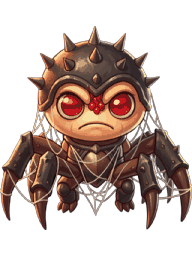
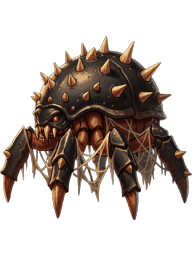
world2: 그림 머리말에서 3등신 문구 제거 · 거미 셋 재생성

diff --git a/game-card-world2/tools/icon_common.py b/game-card-world2/tools/icon_common.py
@@ -38,10 +38,12 @@ PAINT = (
     "painterly brush texture, soft cel-shaded volumes, "
     "bright warm lighting, rich vivid colors, grounded mature art direction for teen and adult players. "
 )
-# 캐릭터 · 크리처 — 작게 보여도 읽히도록 슈퍼 데포르메 비율
+# 캐릭터 · 크리처 — 2026-10-02: **슈퍼 데포르메 문구를 걷어냄**.
+#   'oversized head · small compact body' 가 박혀 있어 곤충 · 짐승까지 큰 눈 달린 귀여운 꼴로 나왔다.
+#   이제 **그 종의 제 비율**로 그리라고 못 박는다 (그림체는 PAINT 로 그대로 이어진다)
 CHARACTER_PREFIX = (
-    "Stylized fantasy RPG game icon, super deformed (SD) style with chunky exaggerated proportions, "
-    "characters have an oversized head and a small compact body, " + PAINT
+    "Stylized fantasy RPG game icon, chunky readable shapes, true natural proportions for the species, "
+    "no chibi, no super deformed, no oversized head, no big cartoon eyes, " + PAINT
 )
 CHARACTER_SUFFIX = (
     ", single character, centered composition, clean readable silhouette, "

diff --git a/game-card-world2/docs/아이콘_목록.md b/game-card-world2/docs/아이콘_목록.md
@@ -2106,27 +2106,27 @@ a small heap of seashells and barnacle crusted stones, wet
 <!-- icon:portrait_spider -->
 ### portrait_spider — 거미
 - 파일: `images/portrait/portrait_spider.png`
-- 생성: 2026-10-01 · seed `262422128998767` · 옵션 `--kind creature`
+- 생성: 2026-10-02 · seed `82499861911912` · 옵션 `--kind creature`
 ```
-a hairy forest spider with long jointed legs and shiny black eyes, standing alert
+a hairy forest spider seen from the side, eight long jointed legs, small dark eye cluster, bristled abdomen, realistic arachnid build
 ```
 <!-- /icon -->
 
 <!-- icon:portrait_webmother -->
 ### portrait_webmother — 거미 어미
 - 파일: `images/portrait/portrait_webmother.png`
-- 생성: 2026-10-01 · seed `83341694385335` · 옵션 `--kind creature`
+- 생성: 2026-10-02 · seed `218862082703265` · 옵션 `--kind creature`
 ```
-a large bloated spider matriarch with a pale swollen abdomen marked with pattern, thick bristled legs, trailing silk
+a huge bloated spider matriarch seen from the side, pale swollen abdomen marked with dark patterns, thick bristled legs, small clustered eyes, trailing silk strands, realistic arachnid build
 ```
 <!-- /icon -->
 
 <!-- icon:portrait_nestkeeper -->
 ### portrait_nestkeeper — 둥지 주인
 - 파일: `images/portrait/portrait_nestkeeper.png`
-- 생성: 2026-10-01 · seed `182136075278071` · 옵션 `--kind creature`
+- 생성: 2026-10-02 · seed `16832986013367` · 옵션 `--kind creature`
 ```
-a huge armored spider lord with spiny black carapace, red eye cluster and barbed legs, draped in webbing
+a massive armored spider lord seen from the side, spiny black carapace with bone like plates, barbed legs, small red eye cluster, draped in torn webbing, menacing realistic arachnid build
 ```
 <!-- /icon -->
 

diff --git a/game-card-world2/docs/기능.md b/game-card-world2/docs/기능.md
@@ -3807,3 +3807,9 @@
 - [x] 실측: 모든 땅의 세 층을 통틀어 `top` 오브제 **0개**
 - [x] `--topfix` 길은 남겨 뒀다 (앞으로도 바닥에 세우는 쪽으로 쓴다 — 쓰게 되면 그때 붙는다)
 - [x] AI 2판(`--blind`) 88.5분 · 막힘 0
+
+## 424. 그림 머리말에서 '3등신' 문구를 걷어냄 (2026-10-02)
+- [x] `icon_common.py` 의 `CHARACTER_PREFIX` 에 **'super deformed (SD) · oversized head · small compact body'** 가 박혀 있었다 — 곤충 · 짐승까지 큰 눈 달린 귀여운 꼴로 나오던 까닭
+- [x] 그 문구를 빼고 **'그 종의 제 비율(true natural proportions for the species) · no chibi · no big cartoon eyes'** 로 바꿨다. 그림체(PAINT)는 그대로
+- [x] 거미 · 거미 어미 · 둥지 주인 **세 장을 다시 뽑았다** — 털 난 타란툴라, 배가 부푼 어미, 가시 갑각의 주인. 큰 눈도 사람 꼴도 없다
+- [x] 알아 둘 일: 기사 · 궁수와 옛 크리처들은 **예전 머리말로 뽑힌 데포르메 비율**이다. 앞으로 뽑는 것과 비율이 다를 수 있다 (다시 뽑을지는 따로 정한다)
